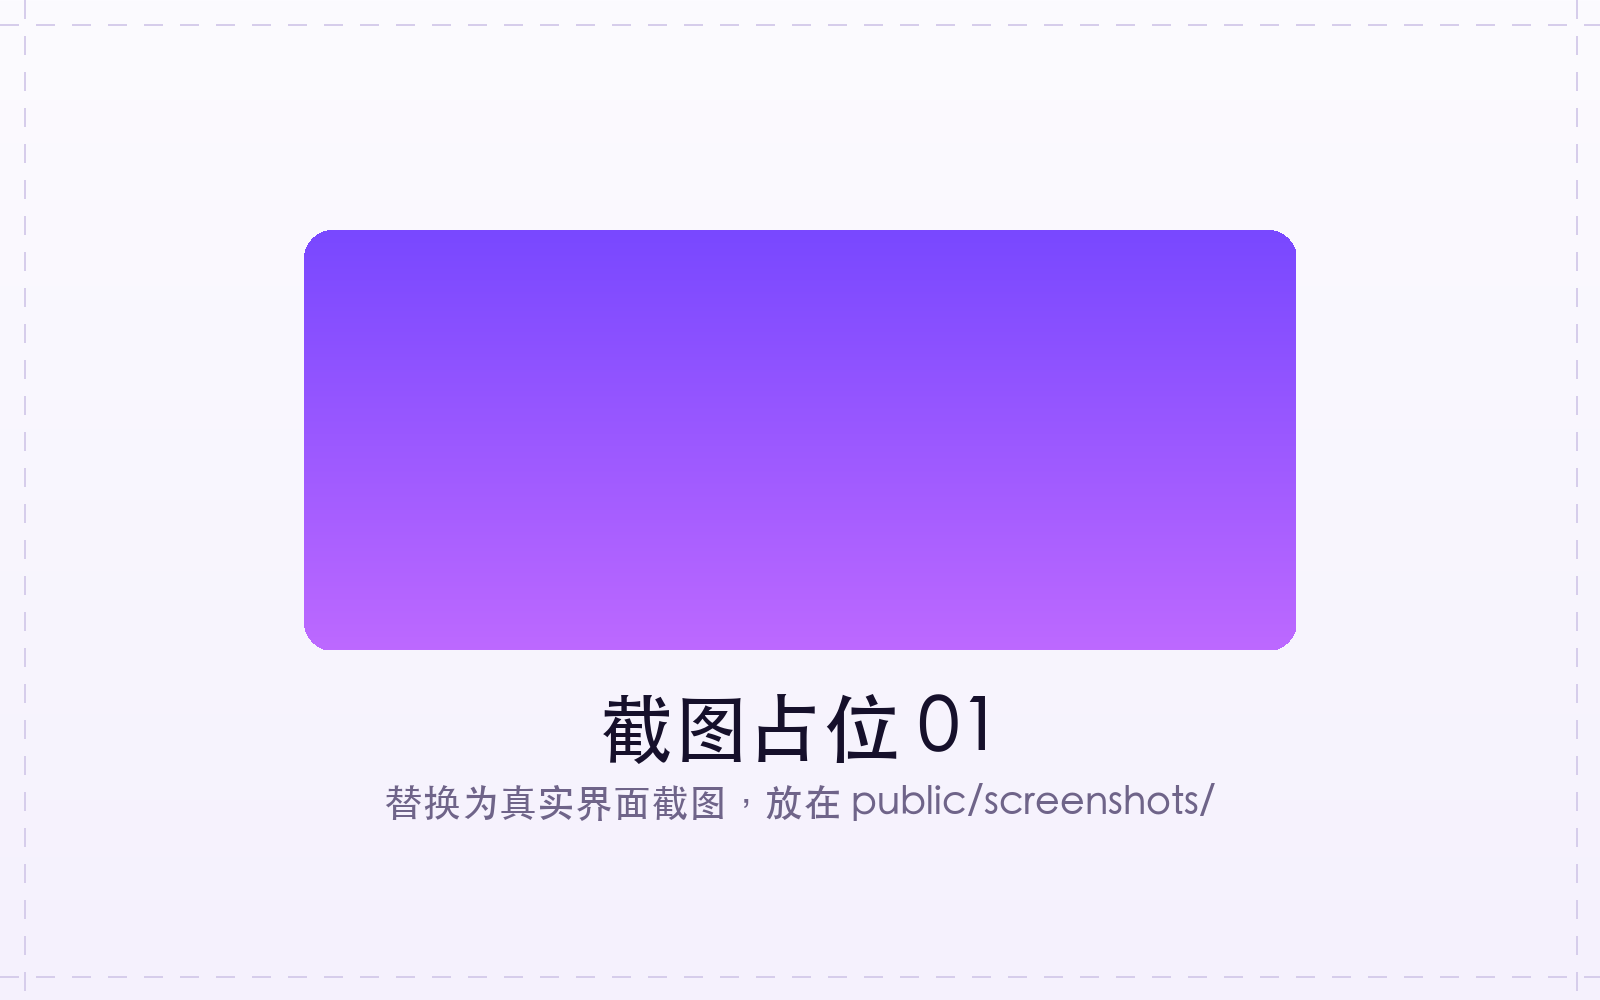
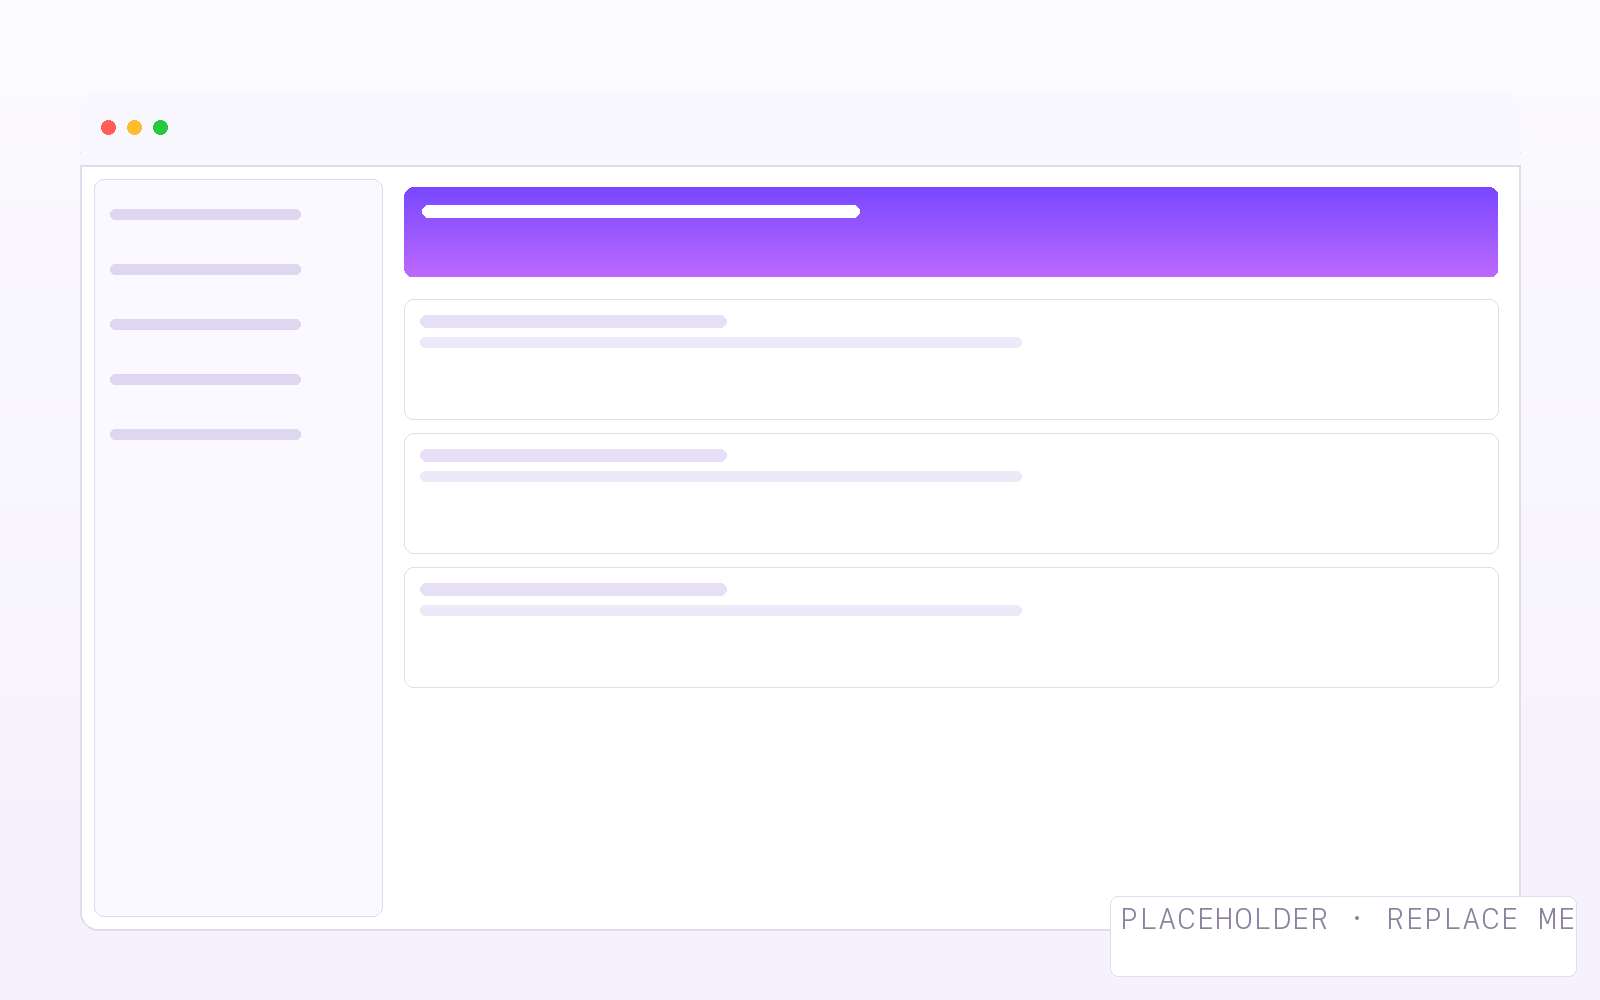
style: 占位图改为界面示意，侧栏分组标签适配中英文混排

diff --git a/.vitepress/theme/style.css b/.vitepress/theme/style.css
@@ -161,8 +161,7 @@ body {
   font-family: var(--mh-font-mono);
   font-size: 11px !important;
   font-weight: 500 !important;
-  letter-spacing: 0.16em;
-  text-transform: uppercase;
+  letter-spacing: 0.04em;
   color: var(--mh-ink-mute) !important;
 }
 
